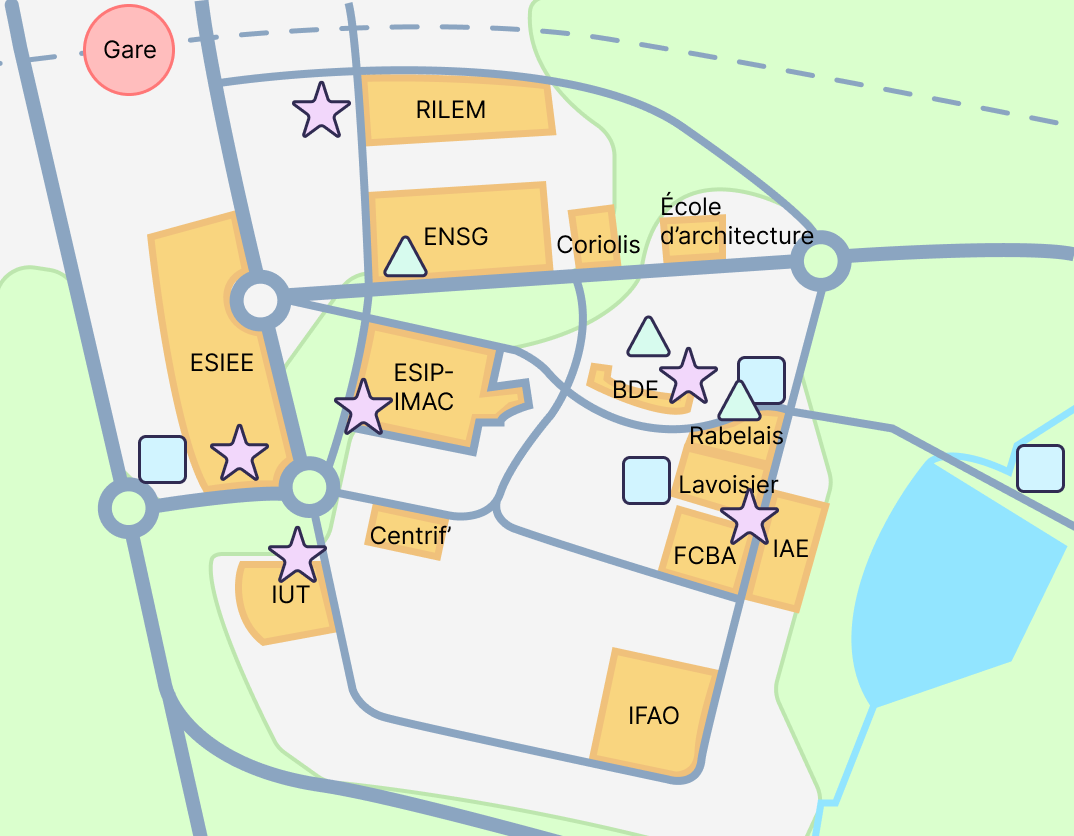
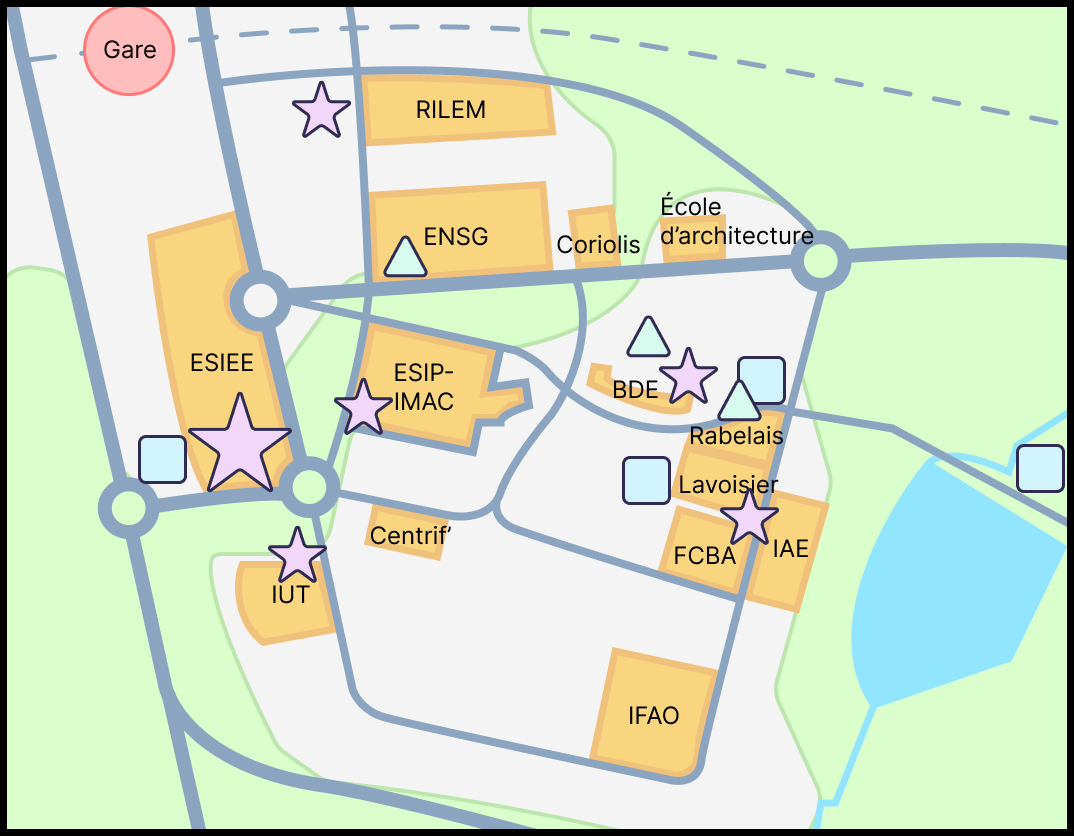
campus -detail a verifier

Changed region(s): [[0.0, 0.0, 1.0, 1.0], [0.1536, 0.4665, 0.2765, 0.5909]]

diff --git a/campus.css b/campus.css
@@ -1,25 +1,159 @@
+h1, h2{
+    text-align: center;
+    font-family: 'Lusitana', serif;
+    font-size: 2rem;
+}
+
 h1{
     text-align: center;
 }
 
+h2{
+    margin: 0px;
+}
+
 .carte{
     display: flex;
-    padding: 20px;
+    /* padding: 20px; */
+    justify-content: center;
+    padding-bottom: 10px;
 }
 
 .img_carte {
-    max-width: 45vw;
+    width: 45vw;
     margin-right: 20px;
+    object-fit: contain;
+    min-width: 438px;
 }
 
-@media (max-width: 1060px){
+.legende{
+    border: 3px solid black;
+    justify-content: space-around;
+  align-items: center;
+  display: flex;
+  padding: 10px;
+
+  justify-content: center;
+  gap: 14px;
+  flex-direction: column;
+}
+
+.bloc_logo{
+    display: flex;
+    flex-direction: column;
+    gap: 25px;
+}
+
+figure{
+    display: flex;
+    flex-direction: column;
+    align-items: center;
+    margin: 0px;
+    justify-content: center;
+}
+
+.etoile{
+    width: 5vw;
+}
+
+.carre{
+    width: 3.5vw;
+}
+
+.bloc_description{
+    display: flex;
+    justify-content: center;
+  align-items: center;
+  gap: 74px;
+  padding-bottom: 20px;
+  padding-left: 50px;
+  padding-right: 50px;
+
+}
+
+.texte{
+    display: flex;
+    flex-direction: column;
+}
+
+.texte p{
+    /* width: 48vw; */
+    margin: 0px;
+}
+
+.esiee{
+    width: 30vw;
+}
+
+
+
+
+@media (max-width: 914px){
+.bloc_description{
+    padding-left: 25px;
+    padding-right: 25px;
+    gap: 5px;
+}
+
+.esiee{
+    min-width: 260px;
+}
+
+
+
+}
+
+
+ @media (max-width: 678px){
     .carte{
         flex-direction: column;
+        justify-content: center;
+        align-items: center;
     }
-    .img_carte{
-        min-width: 80vw;
-        margin-left: auto;
-        margin-right: auto;
-        display: block;
+
+    .legende{
+        flex-direction: row;
+        border: 1px solid black;
+        gap: 40px;
+        justify-content: center;
+    align-items: center;
     }
+
+    figcaption{
+        text-align: center;
+        width: 92px;
+    }
+
+    h2{
+        font-size: 1.5rem;
+    }
+
+    .bloc_logo {
+        flex-direction: row;
+        justify-content: center;
+        align-items: center;
+    }
+
+    .bloc_description{
+        flex-direction: column;
+    }
+
+
+} 
+
+
+@media (max-width: 558px){
+    .bloc_logo {
+        flex-direction: column;
+    }
+
+    .etoile{
+        min-width: 32px;
+    }
+
+    .carre{
+        min-width: 19.45px;
+    }
+
 }
+

diff --git a/campus.php b/campus.php
@@ -31,19 +31,34 @@
 
             <div class="legende">
                 <h2>Légende</h2>
+
+                <div class="bloc_logo">
                 <figure>
-                    <img src="./img/campus/crous.png" alt="">
+                    <img class="etoile" src="./img/campus/crous.png" alt="">
                     <figcaption>Restaurant CROUS</figcaption>
                 </figure>
                 <figure>
-                    <img src="./img/campus/sport.png" alt="">
+                    <img class="carre" src="./img/campus/sport.png" alt="">
                     <figcaption>Gymnase et stade</figcaption>
                 </figure>
                 <figure>
-                    <img src="./img/campus/bibliotheque.png" alt="">
+                    <img class="etoile" src="./img/campus/bibliotheque.png" alt="">
                     <figcaption>Bibliothèque</figcaption>
                 </figure>
+                </div>
             </div>
+        </div>
+<br><br>
+        <div class="bloc_description">
+            <div class="texte">
+                <h2>CROUS DE l’ESIEE</h2>
+            <p>Le restaurant universitaire (RU)
+D’une capacité de 550 élèves, le restaurant universitaire est ouvert uniquement le midi, du lundi au vendredi, de 11 h 30 à 14 h 00. Il est organisé selon différents pôles afin de proposer des plats variés : végétariens, pizzas, poissons, viandes…</p>
+</div>
+            <img class="esiee" src="./img/campus/esiee.jpg" alt="">
+
+
+
         </div>
     </main>
 
